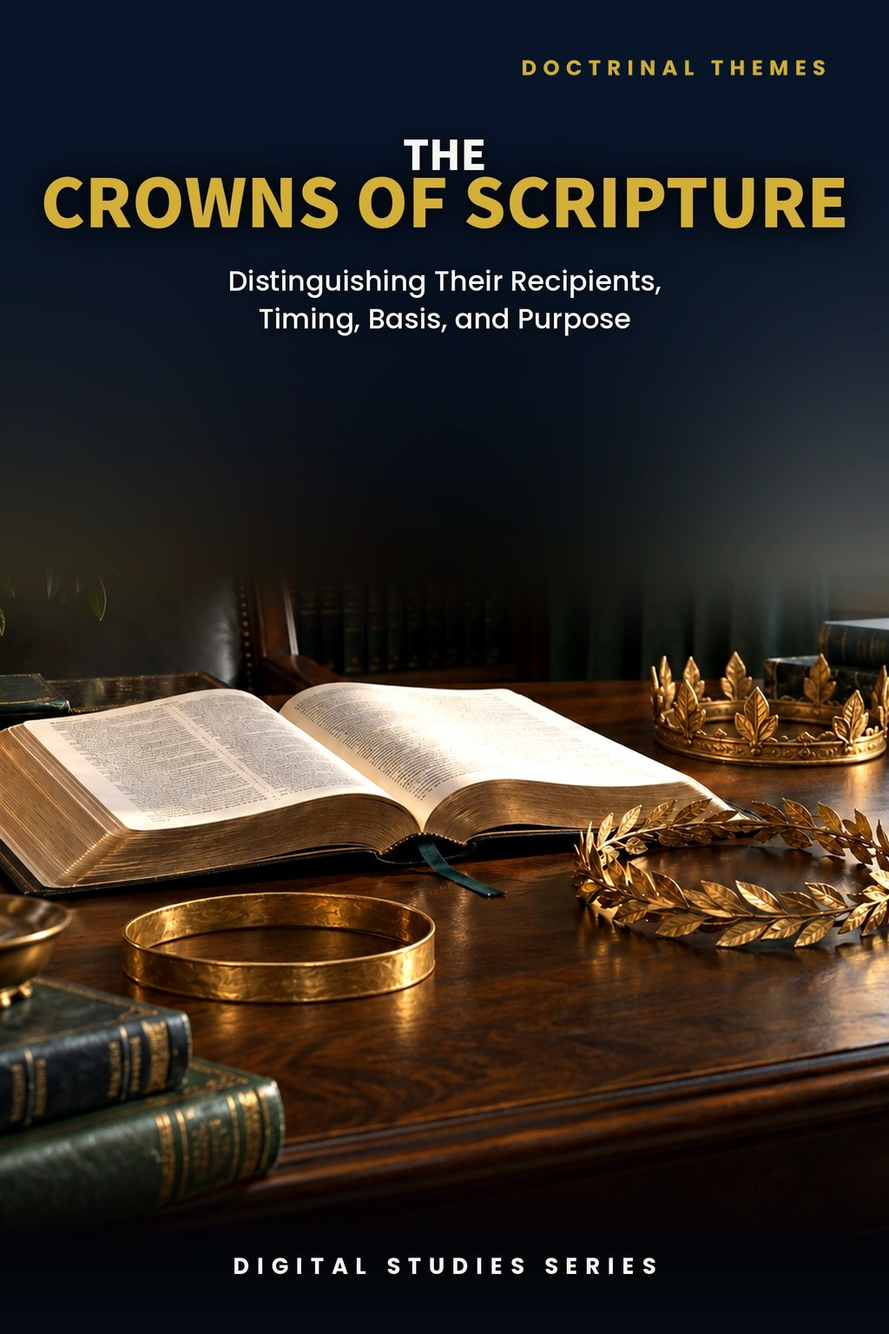
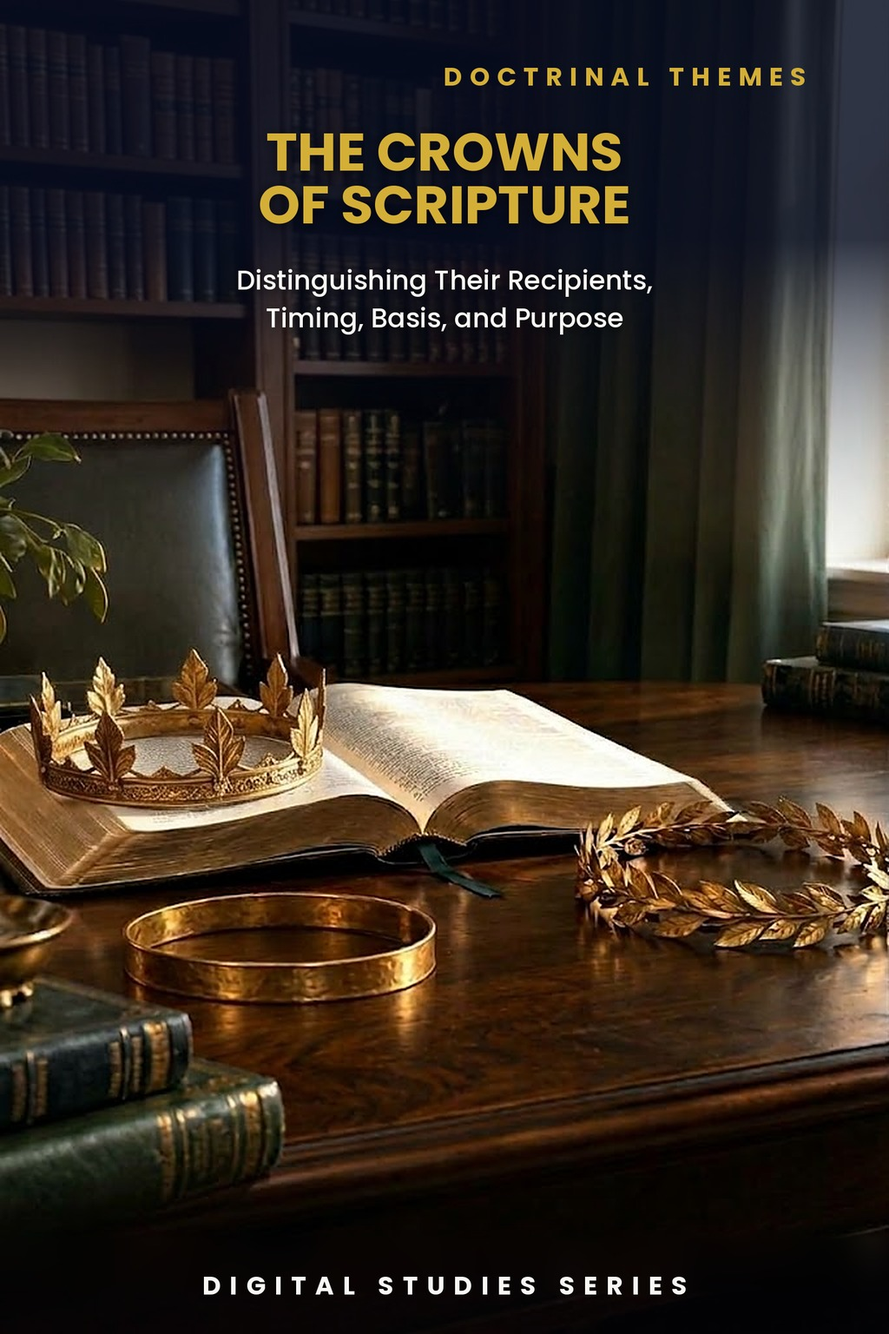
Study 33: Roboto/Standard rebuild, new cover, previews 2/3/5, 16 pages; PAM audit v1.62
Claude-Session: https://claude.ai/code/session_01TLNFW47XCW6YAMUxScR3v4

diff --git a/study-33-the-crowns-of-scripture.html b/study-33-the-crowns-of-scripture.html
@@ -2,12 +2,12 @@
 <html lang="en"><head><meta charset="utf-8"><meta name="viewport" content="width=device-width,initial-scale=1"><title>The Crowns of Scripture | Zay-Marie Press</title><meta name="description" content="Distinguish the crowns of Scripture by their recipients, settings, conditions, timing, and purpose without combining distinct reward, prophetic, royal, and symbolic passages."><link rel="stylesheet" href="styles.css?v=20260928-8"><link rel="icon" type="image/png" href="assets/zay-marie-press-favicon.png"><style>
 .study-detail-page{background:#fff;color:#252525}.detail-hero{background:linear-gradient(135deg,#f8f5ec,#e3ece2);padding:58px 0}.detail-hero-grid{display:grid;grid-template-columns:minmax(250px,.72fr) minmax(0,1.28fr);gap:58px;align-items:center}.detail-cover{max-width:390px;margin:auto}.detail-cover img{display:block;width:100%;height:auto;box-shadow:0 14px 36px rgba(8,45,69,.18)}.detail-hero h1{font-size:clamp(2.7rem,5vw,4.7rem);line-height:1.02;margin:8px 0 10px;color:#143823}.detail-subtitle{font-family:Georgia,serif;font-size:1.35rem;font-weight:700;color:#082d45;margin:0 0 7px}.detail-kicker{font-family:Georgia,serif;font-style:italic;font-size:1.05rem;color:#4a4a44;margin:0 0 22px}.detail-copy{font-size:1.08rem;line-height:1.65;max-width:760px}.detail-buyline{display:flex;align-items:center;gap:18px;flex-wrap:wrap;margin-top:25px}.detail-price{font-family:Georgia,serif;font-size:2rem;font-weight:700;color:#143823}.detail-format,.preview-card .page-no{font-family:Arial,sans-serif;font-size:.76rem;font-weight:700;letter-spacing:.1em;text-transform:uppercase;color:#176b3a}.detail-button{display:inline-block;background:#176b3a;color:#fff;padding:13px 22px;font-family:Arial,sans-serif;font-size:.8rem;font-weight:700;letter-spacing:.07em;text-transform:uppercase}.detail-button.pending{opacity:.72;cursor:default}.detail-section{padding:66px 0}.detail-section.soft{background:#f6f7f2}.detail-section.cream{background:#faf8f2}.detail-section h2{color:#143823;margin:6px 0 18px;font-size:clamp(2rem,3.4vw,3rem)}.detail-section .lead{max-width:920px;font-size:1.1rem;line-height:1.62}.study-distinction{max-width:920px;margin-top:28px;margin-bottom:28px;padding:26px 28px;background:#fff;border:1px solid #d8d1bf;border-left:4px solid #b8871c}.study-distinction h3{margin:0 0 10px;color:#143823}.study-distinction p{margin:0 0 14px;line-height:1.62}.study-distinction a{font-family:Arial,sans-serif;font-weight:700;color:#176b3a;text-decoration:none}.study-points{display:grid;grid-template-columns:repeat(3,1fr);gap:18px;margin-top:28px;margin-bottom:28px}.study-point,.scripture-card,.preview-card,.include-item{background:#fff;border:1px solid var(--line);text-align:left}.study-point{border-top:3px solid #176b3a;padding:22px}.study-point h3{color:#143823;margin:0 0 8px;font-size:1.2rem}.study-point p,.scripture-card p,.preview-card p,.include-item p{margin:0;line-height:1.55}.scripture-grid{display:grid;grid-template-columns:repeat(4,1fr);gap:14px;margin-top:24px;margin-bottom:24px}.scripture-card{padding:22px 20px;color:#143823}.scripture-card h3{margin:0 0 9px;font-family:Georgia,serif;font-size:1rem;line-height:1.35}.scripture-card p{font-size:.94rem;color:#45453f}.excerpt{max-width:900px;margin:28px auto;border-left:4px solid #b8871c;padding:10px 0 10px 28px}.excerpt blockquote{font-family:Georgia,serif;font-size:clamp(1.45rem,2.5vw,2rem);line-height:1.45;color:#143823;margin:0 0 16px}.excerpt p{line-height:1.6;margin:0}.preview-grid{display:grid;grid-template-columns:repeat(2,1fr);gap:20px;margin-top:28px;margin-bottom:28px}.preview-card{padding:18px;min-height:210px;box-shadow:0 7px 20px rgba(20,40,25,.05)}.preview-image-link{display:block;margin:0 0 18px}.preview-image-link img{display:block;width:100%;height:auto;border:1px solid #d8d1bf;box-shadow:0 8px 22px rgba(20,40,25,.1);transition:transform .18s ease,box-shadow .18s ease}.preview-image-link:hover img{transform:translateY(-2px);box-shadow:0 11px 28px rgba(20,40,25,.16)}.preview-card h3{color:#143823;margin:8px 0 10px}.preview-instruction{margin:10px 0 0;font-family:Arial,sans-serif;font-size:.78rem;letter-spacing:.04em;color:#5b5b55}.includes-grid{display:grid;grid-template-columns:repeat(4,1fr);gap:14px;margin-top:26px}.include-item{padding:22px 20px;color:#143823}.include-item h3{margin:0 0 9px;font-family:Arial,sans-serif;font-size:.86rem;line-height:1.35;letter-spacing:.02em}.include-item p{font-size:.94rem;color:#45453f}.final-buy{background:#082d45;color:#fff;border-top:4px solid #b8871c;padding:42px 48px;display:grid;grid-template-columns:1fr auto;gap:36px;align-items:center}.final-buy .eyebrow,.final-buy h2,.final-buy .detail-price{color:#fff}.final-buy h2{margin:7px 0 6px}.final-buy p{margin:0}.final-offer{text-align:center}.back-link{display:inline-block;margin-top:18px;color:#143823;font-family:Arial,sans-serif;font-weight:700;text-decoration:none}.preview-lightbox{position:fixed;inset:0;z-index:10000;display:none;align-items:flex-start;justify-content:center;background:rgba(8,22,16,.88);padding:24px;overflow:auto}.preview-lightbox.open{display:flex}.preview-lightbox img{display:block;width:auto;height:auto;max-width:none;box-shadow:0 18px 55px rgba(0,0,0,.4);background:#fff}.preview-lightbox-close{position:fixed;top:18px;right:24px;z-index:10001;width:46px;height:46px;border:1px solid rgba(255,255,255,.65);border-radius:50%;background:rgba(0,0,0,.55);color:#fff;font:32px/1 Arial,sans-serif;cursor:pointer}@media(max-width:900px){.detail-hero-grid{grid-template-columns:1fr;gap:34px}.detail-cover{max-width:330px}.study-points{grid-template-columns:repeat(2,1fr)}.scripture-grid,.includes-grid{grid-template-columns:repeat(2,1fr)}.preview-grid,.final-buy{grid-template-columns:1fr}.final-offer{text-align:left}}@media(max-width:560px){.detail-hero{padding:42px 0}.detail-section{padding:50px 0}.study-points,.scripture-grid,.includes-grid{grid-template-columns:1fr}.final-buy{padding:32px 24px}.detail-buyline{align-items:flex-start;flex-direction:column;gap:8px}.preview-lightbox{padding:58px 10px 24px}.preview-lightbox img{width:100%;max-width:100%;height:auto}}</style></head><body class="study-detail-page">
 <header class="site-header"><div class="wrap nav"><a class="logo" href="index.html" aria-label="Zay-Marie Press home"><img src="assets/zay-marie-press-logo-hq.png" alt="Zay-Marie Press" width="420" height="238"></a><button class="menu-toggle" type="button" aria-expanded="false" aria-controls="primary-nav">MENU</button><nav aria-label="Primary navigation" class="primary-nav" id="primary-nav"><a href="index.html">HOME</a><a href="books.html">BOOKS</a><a href="series.html">SERIES</a><a class="active" aria-current="page" href="digital-studies.html">DIGITAL STUDIES</a><a href="biblical-hermeneutics-course.html">COURSE</a><a href="about.html">ABOUT</a><a href="resources.html">RESOURCES</a><a href="contact.html">CONTACT</a></nav></div></header><main>
-<section class="detail-hero"><div class="wrap detail-hero-grid"><div class="detail-cover"><img src="assets/study-33-cover.jpg" alt="The Crowns of Scripture cover"></div><div><div class="eyebrow">BIBLICAL DOCTRINE · DIGITAL STUDY</div><h1>The Crowns of Scripture</h1><p class="detail-subtitle">Distinguishing Their Recipients, Timing, Basis, and Purpose</p><p class="detail-kicker">A disciplined study of crown language, reward, endurance, accountability, and royal authority</p><p class="detail-copy">Crown passages are often gathered into one familiar list and assigned to every believer without first asking who is addressed, what kind of crown is in view, when it is received, or why it is given. Scripture’s own contexts require more careful classification.</p><p class="detail-copy">This study examines Pauline reward passages, prophetic promises, Revelation’s crowned figures, and royal symbolism. It distinguishes salvation, reward, honor, reigning, authority, vindication, and worship while preserving each passage’s stated audience and programmatic setting.</p><div class="detail-buyline"><span class="detail-price">$5.99</span><span class="detail-format">Digital PDF · 15 Pages</span><span class="detail-button pending" aria-disabled="true">Checkout Coming Soon</span></div></div></div></section>
+<section class="detail-hero"><div class="wrap detail-hero-grid"><div class="detail-cover"><picture><source srcset="assets/study-33-cover.webp" type="image/webp"><img src="assets/study-33-cover.jpg" alt="The Crowns of Scripture cover"></picture></div><div><div class="eyebrow">STUDY 33 · DIGITAL STUDY</div><h1>The Crowns of Scripture</h1><p class="detail-subtitle">Distinguishing Their Recipients, Timing, Basis, and Purpose</p><p class="detail-kicker">A disciplined study of crown language, reward, endurance, accountability, and royal authority</p><p class="detail-copy">Crown passages are often gathered into one familiar list and assigned to every believer without first asking who is addressed, what kind of crown is in view, when it is received, or why it is given. Scripture’s own contexts require more careful classification.</p><p class="detail-copy">This study examines Pauline reward passages, prophetic promises, Revelation’s crowned figures, and royal symbolism. It distinguishes salvation, reward, honor, reigning, authority, vindication, and worship while preserving each passage’s stated audience and programmatic setting.</p><div class="detail-buyline"><span class="detail-price">$5.99</span><span class="detail-format">Digital PDF · 16 Pages</span><span class="detail-button pending" aria-disabled="true">Checkout Coming Soon</span></div></div></div></section>
 <section class="detail-section"><div class="wrap"><div class="eyebrow">ABOUT THIS STUDY</div><h2>Crown Language Is Not One Uniform Category</h2><p class="lead">Scripture uses crowns for disciplined service, ministry fruit, faithful completion, endurance, shepherding, overcoming, delegated authority, worship, symbolic identity, and Christ’s royal supremacy. Similar imagery does not make every passage identical in audience or purpose.</p><p class="lead">The study begins with vocabulary and classification controls, then follows each major passage in context. Conclusions are identified as explicit, necessarily inferred, reasonably inferred, or tentative so familiar teaching never outruns the evidence.</p><p class="lead">This is not a study of Scripture’s judgments as a whole, which Study 31 classifies by subject, time, and standard, nor of Paul’s own Day-of-Christ language, which Study 8 defines on its own terms. Its task is narrower: to ask, of each individual crown passage, who receives it, for what, and under what image — service, endurance, shepherding, or royal supremacy — so that one familiar word never flattens several distinct pictures into a single reward.</p><div class="study-distinction"><h3>How These Studies Relate</h3><p>Study 33 distinguishes reward crowns from other crown imagery, honor, and royal authority according to context.</p><p><a href="study-31-the-judgments-of-scripture.html">Study 31 — The Judgments of Scripture</a> Locate reward and the Judgment Seat among Scripture’s distinct judgments; this prevents a reward image from being confused with condemnation or another judgment scene.</p><p><a href="study-08-the-day-of-christ.html">Study 8 — The Day of Christ</a> Check what Paul’s Day-of-Christ passages actually say about future rejoicing and completion before equating every reference with a specific crown.</p><p class="connection-guide-link"><a href="study-connections.html#study-33">Explore the full connection guide for Study 33 →</a></p></div><div class="cross-strand-note"><p class="cross-strand-label">FROM THE PARABLES STRAND</p><p>Three parables raise reward questions this study answers by classification rather than assumption.</p><p><a href="parable-21-the-talents.html">The Talents</a> · <a href="parable-22-the-minas.html">The Minas</a> · <a href="parable-29-the-laborers-in-the-vineyard.html">The Laborers in the Vineyard</a></p></div></div></section>
-<section class="detail-section soft"><div class="wrap"><div class="eyebrow">WHAT YOU’LL STUDY</div><h2>Classify Every Crown Before Combining Passages</h2><div class="study-points"><div class="study-point"><h3>Language and Context</h3><p>Distinguish <em>stephanos</em>, <em>diadema</em>, metaphorical reward, and symbolic crown imagery.</p></div><div class="study-point"><h3>Recipients</h3><p>Identify whether Paul, members of the Body, elders, overcomers, heavenly elders, or Christ is in view.</p></div><div class="study-point"><h3>Basis and Condition</h3><p>Trace discipline, ministry fruit, faithful completion, endurance, shepherding, and overcoming.</p></div><div class="study-point"><h3>Timing</h3><p>Compare Christ’s appearing, the Judgment Seat of Christ, death, approval, Kingdom expectation, and throne visions.</p></div><div class="study-point"><h3>Purpose</h3><p>Separate reward, joy, honor, vindication, delegated authority, worship, and royal supremacy.</p></div><div class="study-point"><h3>Programmatic Setting</h3><p>Preserve Pauline Mystery passages and prophetic crown promises without unauthorized transfer.</p></div></div></div></section>
+<section class="detail-section soft"><div class="wrap"><div class="eyebrow">WHAT YOU’LL STUDY</div><h2>Classify Every Crown Before Combining Passages</h2><div class="study-points"><div class="study-point"><h3>Language and Context</h3><p>Distinguish <em>stephanos</em>, <em>diadema</em>, metaphorical reward, and symbolic crown imagery.</p></div><div class="study-point"><h3>Recipients</h3><p>Identify whether Paul, members of the Body, elders, overcomers, heavenly elders, or Christ is in view.</p></div><div class="study-point"><h3>Basis and Condition</h3><p>Trace discipline, ministry fruit, faithful completion, endurance, shepherding, and overcoming.</p></div><div class="study-point"><h3>Timing</h3><p>Compare Christ’s appearing, the Judgment Seat of Christ, death, approval, Kingdom expectation, and throne visions.</p></div><div class="study-point"><h3>Purpose</h3><p>Separate reward, joy, honor, vindication, delegated authority, worship, and royal supremacy.</p></div><div class="study-point"><h3>Programmatic Setting</h3><p>Test each crown promise against its stated recipients, timing, and setting before deciding how it relates to the others.</p></div></div></div></section>
 <section class="detail-section cream"><div class="wrap"><div class="eyebrow">KEY SCRIPTURES</div><h2>Follow the Crown Passages in Their Own Settings</h2><div class="scripture-grid"><div class="scripture-card"><h3>1 Corinthians 9:24–27</h3><p>Discipline, service, approval, and an incorruptible crown.</p></div><div class="scripture-card"><h3>1 Thessalonians 2:19–20</h3><p>Paul’s converts as his crown and joy at Christ’s coming.</p></div><div class="scripture-card"><h3>2 Timothy 4:6–8</h3><p>Faithful completion, Christ’s appearing, and the crown of righteousness.</p></div><div class="scripture-card"><h3>James 1:12</h3><p>Endurance under trial and the crown of life.</p></div><div class="scripture-card"><h3>1 Peter 5:1–4</h3><p>Faithful elders and the unfading crown of glory.</p></div><div class="scripture-card"><h3>Revelation 2–3</h3><p>Overcoming, faithfulness, authority, and crown warnings.</p></div><div class="scripture-card"><h3>Revelation 4:4, 10</h3><p>The twenty-four elders, crowned worship, and derived honor.</p></div><div class="scripture-card"><h3>Revelation 19:11–16</h3><p>Christ’s many diadems and unique royal supremacy.</p></div></div></div></section>
 <section class="detail-section"><div class="wrap"><div class="eyebrow">FROM THE STUDY</div><h2>Similar Imagery Does Not Create Transfer</h2><div class="excerpt"><blockquote>“Crown passages must be classified before they are combined.”</blockquote><p>Audience, program, form, basis, timing, purpose, and level of certainty protect the reader from turning shared imagery into an unauthorized transfer of promises or responsibilities.</p></div></div></section>
-<section class="detail-section soft"><div class="wrap"><div class="eyebrow">A LOOK INSIDE</div><h2>Preview the Study Before You Purchase</h2><p class="preview-instruction">Click any page to enlarge it for reading.</p><div class="preview-grid"><div class="preview-card"><a class="preview-image-link" data-preview-lightbox href="assets/study-33-page-3.jpg"><img src="assets/study-33-page-3.jpg" alt="Study 33 page 3 learning outcomes and Study Goal"></a><div class="page-no">Page 3</div><h3>Learning Outcomes and Study Goal</h3><p>Begin with the questions that control crown classification and the conclusions the study will equip you to make.</p></div><div class="preview-card"><a class="preview-image-link" data-preview-lightbox href="assets/study-33-page-7.jpg"><img src="assets/study-33-page-7.jpg" alt="Study 33 page 7 Pauline crown passages and the crown of life"></a><div class="page-no">Page 7</div><h3>Pauline Crowns and the Crown of Life</h3><p>Compare disciplined service and ministry fruit with James’s promise to those who endure trial.</p></div><div class="preview-card"><a class="preview-image-link" data-preview-lightbox href="assets/study-33-page-10.jpg"><img src="assets/study-33-page-10.jpg" alt="Study 33 page 10 royal and symbolic crown imagery"></a><div class="page-no">Page 10</div><h3>Royal and Symbolic Crown Imagery</h3><p>Distinguish prophetic symbols, delegated authority, and Christ’s unique royal supremacy.</p></div><div class="preview-card"><a class="preview-image-link" data-preview-lightbox href="assets/study-33-page-12.jpg"><img src="assets/study-33-page-12.jpg" alt="Study 33 page 12 crown recipients timing and purpose table"></a><div class="page-no">Page 12</div><h3>Recipients, Timing, and Purpose</h3><p>Review the major passages through a concise comparison table without collapsing their settings.</p></div></div></div></section>
-<section class="detail-section"><div class="wrap"><div class="eyebrow">WHAT’S INCLUDED</div><h2>A Focused Study Built for<br>Classification and Careful Interpretation</h2><div class="includes-grid"><div class="include-item"><h3>15-Page Biblical Study</h3><p>A substantial treatment of the principal crown passages and their distinct settings.</p></div><div class="include-item"><h3>Twelve Teaching Sections</h3><p>Move from vocabulary and controls through Pauline, prophetic, symbolic, and royal uses.</p></div><div class="include-item"><h3>Passage Classification Method</h3><p>Identify audience, program, form, basis, timing, purpose, and evidentiary certainty.</p></div><div class="include-item"><h3>High-Contrast Tables</h3><p>Compare crown passages, recipients, timing, and warranted conclusions clearly.</p></div><div class="include-item"><h3>Scripture-Tracing Exercise</h3><p>Work through Pauline reward, prophetic endurance, elder, throne, and royal passages.</p></div><div class="include-item"><h3>Review Questions</h3><p>Test your ability to distinguish shared imagery from programmatic ownership.</p></div><div class="include-item"><h3>Teaching Outline</h3><p>Use a ready framework for presenting crown language responsibly and accurately.</p></div><div class="include-item"><h3>Guided Further Study</h3><p>Grouped passages and evidence controls support continued independent investigation.</p></div></div></div></section>
-<section class="detail-section cream"><div class="wrap"><div class="final-buy"><div><div class="eyebrow">BIBLICAL DOCTRINE · DIGITAL STUDY</div><h2>The Crowns of Scripture</h2><p>Digital PDF · 15 Pages · For personal use</p></div><div class="final-offer"><div class="detail-price">$5.99</div><span class="detail-button pending" aria-disabled="true">Checkout Coming Soon</span></div></div><a class="back-link" href="digital-studies.html">← Back to All Digital Studies</a></div></section><section class="study-method-course-bridge"><div class="wrap"><div class="study-method-course-panel"><div><div class="eyebrow">BUILD THE INTERPRETIVE METHOD</div><h2>Want More Than a Focused Study?</h2><p>Digital Studies examine particular biblical subjects and difficult passages. The 40-lesson Biblical Hermeneutics course teaches a complete, repeatable method for establishing meaning in context, determining proper assignment, and making responsible application.</p></div><a class="btn btn-primary" href="biblical-hermeneutics-course.html">BIBLICAL HERMENEUTICS COURSE</a></div></div></section></main>
+<section class="detail-section soft"><div class="wrap"><div class="eyebrow">A LOOK INSIDE</div><h2>Preview the Study Before You Purchase</h2><p class="preview-instruction">Click any page to enlarge it for reading.</p><div class="preview-grid"><div class="preview-card"><a class="preview-image-link" data-preview-lightbox href="assets/study-33-page-2.jpg"><img src="assets/study-33-page-2.jpg" alt="Study 33 interior preview — page 2, table of contents"></a><div class="page-no">Page 2</div><h3>Table of Contents</h3><p>See how the study moves from crown vocabulary through each passage to timing and classification.</p></div><div class="preview-card"><a class="preview-image-link" data-preview-lightbox href="assets/study-33-page-3.jpg"><img src="assets/study-33-page-3.jpg" alt="Study 33 interior preview — page 3, What You Will Learn and Study Goal"></a><div class="page-no">Page 3</div><h3>What You Will Learn</h3><p>Begin with the skills you will practice in classifying each crown passage by its audience, condition, and timing.</p></div><div class="preview-card"><a class="preview-image-link" data-preview-lightbox href="assets/study-33-page-5.jpg"><img src="assets/study-33-page-5.jpg" alt="Study 33 interior preview — page 5, The Incorruptible Crown"></a><div class="page-no">Page 5</div><h3>The Incorruptible Crown</h3><p>Follow Paul’s athletic image in 1 Corinthians 9 and the wider passage on evaluating service.</p></div></div></div></section>
+<section class="detail-section"><div class="wrap"><div class="eyebrow">WHAT’S INCLUDED</div><h2>A Focused Study Built for<br>Classification and Careful Interpretation</h2><div class="includes-grid"><div class="include-item"><h3>16-Page Biblical Study</h3><p>A substantial treatment of the principal crown passages and their distinct settings.</p></div><div class="include-item"><h3>Twelve Teaching Sections</h3><p>Move from vocabulary and controls through Pauline, prophetic, symbolic, and royal uses.</p></div><div class="include-item"><h3>Passage Classification Method</h3><p>Identify audience, program, form, basis, timing, purpose, and evidentiary certainty.</p></div><div class="include-item"><h3>High-Contrast Tables</h3><p>Compare crown passages, recipients, timing, and warranted conclusions clearly.</p></div><div class="include-item"><h3>Scripture-Tracing Exercise</h3><p>Work through Pauline reward, prophetic endurance, elder, throne, and royal passages.</p></div><div class="include-item"><h3>Review Questions</h3><p>Test your ability to distinguish shared imagery from programmatic ownership.</p></div><div class="include-item"><h3>Teaching Outline</h3><p>Use a ready framework for presenting crown language responsibly and accurately.</p></div><div class="include-item"><h3>Guided Further Study</h3><p>Grouped passages and evidence controls support continued independent investigation.</p></div></div></div></section>
+<section class="detail-section cream"><div class="wrap"><div class="final-buy"><div><div class="eyebrow">STUDY 33 · DIGITAL STUDY</div><h2>The Crowns of Scripture</h2><p>Digital PDF · 16 Pages · For personal use</p></div><div class="final-offer"><div class="detail-price">$5.99</div><span class="detail-button pending" aria-disabled="true">Checkout Coming Soon</span></div></div><a class="back-link" href="digital-studies.html">← Back to All Digital Studies</a></div></section><section class="study-method-course-bridge"><div class="wrap"><div class="study-method-course-panel"><div><div class="eyebrow">BUILD THE INTERPRETIVE METHOD</div><h2>Want More Than a Focused Study?</h2><p>Digital Studies examine particular biblical subjects and difficult passages. The 40-lesson Biblical Hermeneutics course teaches a complete, repeatable method for establishing meaning in context, determining proper assignment, and making responsible application.</p></div><a class="btn btn-primary" href="biblical-hermeneutics-course.html">BIBLICAL HERMENEUTICS COURSE</a></div></div></section></main>
 <div class="preview-lightbox" id="preview-lightbox" role="dialog" aria-modal="true" aria-label="Expanded study preview"><button class="preview-lightbox-close" type="button" aria-label="Close preview">×</button><img id="preview-lightbox-image" alt=""></div><footer class="site-footer"><div class="wrap footer-grid"><div class="footer-about"><h3>Zay-Marie Press</h3><p class="footer-tagline"><em>Where the Bible Means What It Says.</em></p><p>Zay-Marie Press is a Christian theological publisher dedicated to producing doctrinally precise, carefully structured biblical resources that equip pastors, teachers, and serious students with clarity, depth, and Scripture-anchored truth.</p><p><a href="https://zaymariepress.com">zaymariepress.com</a><br><a href="mailto:info@zaymariepress.com">info@zaymariepress.com</a></p></div><div class="footer-column"><h3>Explore</h3><div class="footer-links-stacked"><a href="books.html">Books</a><br><a href="series.html">Series</a><br><a href="biblical-hermeneutics-course.html">Course</a><br><a href="digital-studies.html">Digital Studies</a><br><a href="resources.html">Resources</a><br><a href="bible-book-summaries.html">Bible Book Summaries</a><br><a href="doctrinal-packets.html">Doctrinal Packets</a><br><a href="historical-drift.html">Historical Drift</a><br><a href="about.html">About</a><br><a href="contact.html">Contact</a></div></div><div class="footer-column"><h3>Reader Support</h3><div class="footer-links-stacked"><a href="reader-support.html#faq">FAQ</a><br><a href="reader-support.html#shipping-returns">Shipping &amp; Returns</a><br><a href="reader-support.html#digital-downloads">Digital Downloads</a><br><a href="reader-support.html#contact-support">Contact Support</a></div></div><div class="footer-column"><h3>Acts Overlap</h3><p><strong>Acts Overlap Theology Series</strong></p><p><em>Two Distinct Streams. One Overlap.</em></p><p><a href="series.html">Series Overview</a></p></div></div><div class="wrap footer-bottom">© 2026 Zay-Marie Press. All rights reserved.</div></footer><script src="site.js"></script><script>const lightbox=document.getElementById('preview-lightbox'),lightboxImage=document.getElementById('preview-lightbox-image'),closeLightbox=()=>{lightbox.classList.remove('open');lightboxImage.src='';};document.querySelectorAll('[data-preview-lightbox]').forEach(link=>link.addEventListener('click',event=>{event.preventDefault();lightboxImage.src=link.href;lightboxImage.alt=link.querySelector('img').alt;lightbox.classList.add('open');}));document.querySelector('.preview-lightbox-close').addEventListener('click',closeLightbox);lightbox.addEventListener('click',event=>{if(event.target===lightbox)closeLightbox();});document.addEventListener('keydown',event=>{if(event.key==='Escape')closeLightbox();});</script></body></html>

diff --git a/site.js b/site.js
@@ -62,7 +62,7 @@ const resourceModal=document.querySelector('#resource-modal'), resourceModalTitl
 if(resourceModal&&resourceModalTriggers.length){const closeResourceModal=()=>{resourceModal.hidden=true;document.body.classList.remove('resource-modal-open');lastResourceTrigger?.focus();};resourceModalTriggers.forEach(trigger=>trigger.addEventListener('click',()=>{lastResourceTrigger=trigger;if(resourceModalTitle)resourceModalTitle.textContent=trigger.dataset.title||'Resource';if(resourceModalDescription)resourceModalDescription.textContent=trigger.dataset.description||'';if(resourceModalLink){resourceModalLink.href=trigger.dataset.href||'#';resourceModalLink.textContent=trigger.dataset.linkText||'OPEN RESOURCE';}resourceModal.hidden=false;document.body.classList.add('resource-modal-open');resourceModalClose?.focus();}));resourceModalClose?.addEventListener('click',closeResourceModal);resourceModal.addEventListener('click',e=>{if(e.target===resourceModal)closeResourceModal();});document.addEventListener('keydown',e=>{if(e.key==='Escape'&&!resourceModal.hidden)closeResourceModal();});}
 
 /* Display the verified final-PDF page count at the primary purchase decision point. */
-const digitalStudyPageCounts={1:14,2:14,3:18,4:18,5:16,6:16,7:16,8:16,9:16,10:23,11:15,12:14,13:18,14:15,15:16,16:16,17:18,18:18,19:16,20:16,21:16,22:16,23:16,24:16,25:17,26:18,27:16,28:16,29:16,30:17,31:19,32:16,33:15,34:16,35:15,36:15,37:15,38:16,39:16,40:15,41:15,42:15,43:17,44:15,45:15,46:15,47:16,48:15,49:14,50:14,51:15,52:15,53:15,54:15,55:16,56:16,61:16,62:16,63:16,64:16,65:16,66:16,67:16,68:16,69:16,70:16,71:16};
+const digitalStudyPageCounts={1:14,2:14,3:18,4:18,5:16,6:16,7:16,8:16,9:16,10:23,11:15,12:14,13:18,14:15,15:16,16:16,17:18,18:18,19:16,20:16,21:16,22:16,23:16,24:16,25:17,26:18,27:16,28:16,29:16,30:17,31:19,32:16,33:16,34:16,35:15,36:15,37:15,38:16,39:16,40:15,41:15,42:15,43:17,44:15,45:15,46:15,47:16,48:15,49:14,50:14,51:15,52:15,53:15,54:15,55:16,56:16,61:16,62:16,63:16,64:16,65:16,66:16,67:16,68:16,69:16,70:16,71:16};
 const digitalStudyMatch=window.location.pathname.match(/\/study-(\d+)-/i);
 const digitalStudyFormat=document.querySelector('.detail-hero .detail-format');
 if(digitalStudyMatch&&digitalStudyFormat){const studyNumber=Number(digitalStudyMatch[1]),pageCount=digitalStudyPageCounts[studyNumber];if(pageCount)digitalStudyFormat.textContent=`Digital PDF · ${pageCount} Pages`;}

diff --git a/controlling-documents/Digital_Studies_PAM_Audit_v1.62.md b/controlling-documents/Digital_Studies_PAM_Audit_v1.62.md
@@ -1,4 +1,4 @@
-# Digital Studies vs. PAM Audit — v1.61
+# Digital Studies vs. PAM Audit — v1.62
 
 Working tracker and instructions for checking the Digital Studies against the Program Assignment Manual (PAM), §XIX of `Framework_Control_Document_Acts_Overlap.docx`, including its "Section 4 — Publisher Rulings". Same `_vX.Y` convention as the other controlling documents: update the status table and changelog as the audit proceeds, bump the version, and rename the file to match.
 
@@ -291,3 +291,4 @@ Study 15 PDF not yet supplied. Typography: none of Studies 2, 3, 6, 8 is in EB G
 - v1.59 (2026-10-01): Study 30 (Seated With Christ in Heavenly Places) read in full against the PAM and Framework from the publisher's DOCX (about 16 interior pages): clear, no conflicts. Ephesians 1–3 is read as Mystery Program content; the Body's inheritance of the heavenly places and angelic seats is stated as the Framework's identification, and the study keeps present independent jurisdiction and administrative detail as unsupported or qualified; the Judgment Seat is reward evaluation for the Body (Framework); Israel's Prophecy and the Body's Mystery stay distinct (Acts 9–28 concurrent, Prophecy suspended at Acts 28, Mystery continues); 1 Cor 6:2–3 and 2 Tim 2:12 are reported as text. Approved addition (§7, directly after the Framework sentence): "That identification is the Framework's doctrinal position and is not argued here from a single verse. The qualification in this study concerns present jurisdiction and the details of the future administration, not the inheritance itself." The Disputed list ("Governmental installation…") was left intact. Rebuilt to the Master Standard (Roboto, five boxed callouts with Grace Control, Union Control and Time Control as bold run-ins, TOC first, bullet Study Outline, plain-heading Teaching Outline, 17 pages including cover, kept at 17 under the page-count exception rule at the publisher's direction). §17 rewrites: What You Will Learn points 5 and 6 and Study Outline items 4 and 6; website "What You'll Study" points 4, 5 and 6 matched to them. Cover from the publisher's landscape artwork (top 90 px cropped to remove the "Made with AI" badge; art at full width with fades; BODY OF CHRIST label); the old study-30-cover-v2.webp special case was removed from site.js. Previews: pages 2, 3 and 5 (old pages 4, 9 and 12 removed). Page count stays 17. Category: Body of Christ.
 - v1.60 (2026-10-01): Study 31 (The Judgments of Scripture) read in full against the PAM and Framework from the publisher's DOCX (about 17 interior pages in source): clear, no conflicts. It matches the Framework's judgment table (Israel: prophetic accountability + Kingdom entrance; Body: Judgment Seat of Christ, reward evaluation); Acts 28 is "national judicial suspension, not abolition" (Acts Overlap, PAM Rule 4); 1 Cor 11 is Body practice; 1 Cor 6:3 reported as explicit without invented detail; Matthew 24 is Israel's Prophecy setting with no "one taken, one left" claims. The Framework and PAM are silent on Matthew 25:31–46 and Revelation 19–22, so the publisher approved an anchoring sentence (PAM Rule 1), added at the end of the paragraph after Interpretive Control in the Introduction, word for word: "The Framework assigns Israel's prophetic accountability and the Body's Judgment Seat; the placement of Matthew 25 and Revelation 19–22 in this study is an interpretive reading drawn from each passage's own markers, not a PAM assignment." The publisher also approved a clarifying sentence in §8 directly after the "belong to the mysteries of the Kingdom" sentence: "The 'mysteries of the kingdom' (Matthew 13:11) are Kingdom-parable content in Matthew's prophetic setting; they are not the Mystery revealed through Paul." Rebuilt to the Master Standard (Roboto, five boxed callouts: Study Goal, Interpretive Control, Gospel Control, Judgment Seat Control, Chronology Control; Classification Rule, Pastoral Control, Program Control, Evidence Control and Synthesis Rule became bold run-ins; flat one-entry-per-heading TOC; Central Classification Questions moved into §1; Pastoral Control table cleaned; closing Final Synthesis box became a Final Synthesis heading and paragraph; typed numerals removed). §17 rewrites: What You Will Learn points 5–11 and Study Outline items 3, 4, 5, 7 and 9; website "What You'll Study" Programmatic Setting point matched. Length 19 pages including cover (18 interior; ten tables), kept at 19 at the publisher's direction under the page-count exception rule; site.js 31:17 to 31:19. Cover: the publisher's finished cover image used as supplied (DOCTRINAL THEMES label, no badge; trimmed 6 px to 2:3, enlarged to 1600×2400) with "THE JUDGMENTS" reduced 30% at the publisher's direction (gold line rebuilt on the same navy gradient). Hero eyebrow changed from the retired "BIBLICAL DOCTRINE · DIGITAL STUDY" to "STUDY 31 · DIGITAL STUDY". Previews: pages 2, 3 and 5 (old pages 4, 8 and 13 removed). Category: Doctrinal Themes.
 - v1.61 (2026-10-01): Study 32 (Covenant Theology and Dispensational Theology) read in full against the PAM and Framework from the publisher's DOCX (about 13 interior pages in source): clear, no conflicts. Section 10 (Acts Overlap Theology) matches the Framework and PAM Rule 4 (Prophecy before Acts 9, concurrent Acts 9–28, Acts 28 national judicial suspension not abolition, local turns in Acts 13/18/19 not national suspension, non-transfer). Three clarifying sentences approved and added: Hebrews (not assigned as a book; read interpretively within Israel's Prophecy line, covenant warnings not converted into warnings to the Body); Romans 11:25 (Prophecy Program content occurring during the Mystery administration); Revelation 20–22 (text only, not assigned as a book). Spoiler fix: What You Will Learn bullet 3 rewritten as a process line; website What You'll Study point 6 and the Acts 9 and 28 Key Scripture card reworded to match (§17). Seven callouts reduced to five boxed. Rebuilt to the Roboto/Standard format: decorative labels removed, "Continued" headings merged, flat TOC, Roman-numeral outline to bullets, two neutral KJV tables added; 15 interior pages plus cover (16 total, site.js 32:16). Cover: publisher-supplied image, FOUNDATIONS label, title reduced 25% by re-lettering (the cover reads "Dispensational & Covenant Theology", the study title is unchanged). Previews: pages 2, 3 and 5 (replaces four prior previews). Hero eyebrow changed from BIBLICAL DOCTRINE to STUDY 32 · DIGITAL STUDY. Pushed after the publisher's approval.
+- v1.62 (2026-10-01): Study 33 (The Crowns of Scripture) read in full against the PAM and Framework from the publisher's DOCX (about 12 interior pages in source): clear, no conflicts. The Judgment Seat passages (Romans 14:10–12; 1 Cor 3:8–15; 4:1–5; 2 Cor 5:6–10) match the PAM's 2 Cor 5 judgment-seat assignment (Mystery Program, applies to the Body) and the Framework's judgment table; Israel's prophetic accountability matches the table; the non-transfer callouts match PAM Rule 4. The PAM is silent on James, 1 Peter, 2 John and Revelation as books and on Philippians, 1 Thessalonians and 2 Timothy individually, so an anchoring sentence was added at the end of the Introduction (placement of each crown passage is an interpretive reading from the passage's own markers, not a PAM assignment). The table cell "Christ's coming for the Body" (1 Thess 2:19–20) was changed to "Christ's coming, in Paul's Thessalonian setting". Spoiler fix (§17): What You Will Learn bullets 2, 3 and 4 rewritten as process lines; the website What You'll Study last point reworded. Seven callouts reduced to five boxed. Rebuilt to the Roboto/Standard format; two neutral KJV tables added (Scripture-Tracing and Guided Further Study); 15 interior pages plus cover (16 total, site.js 33:16). Cover: new publisher-supplied artwork (683×1024, scaled up), DOCTRINAL THEMES label, series lettering with the title reduced 25%. Previews: pages 2, 3 and 5 (replace four prior previews). Hero eyebrow changed from BIBLICAL DOCTRINE to STUDY 33 · DIGITAL STUDY. Pushed after the publisher's approval.
